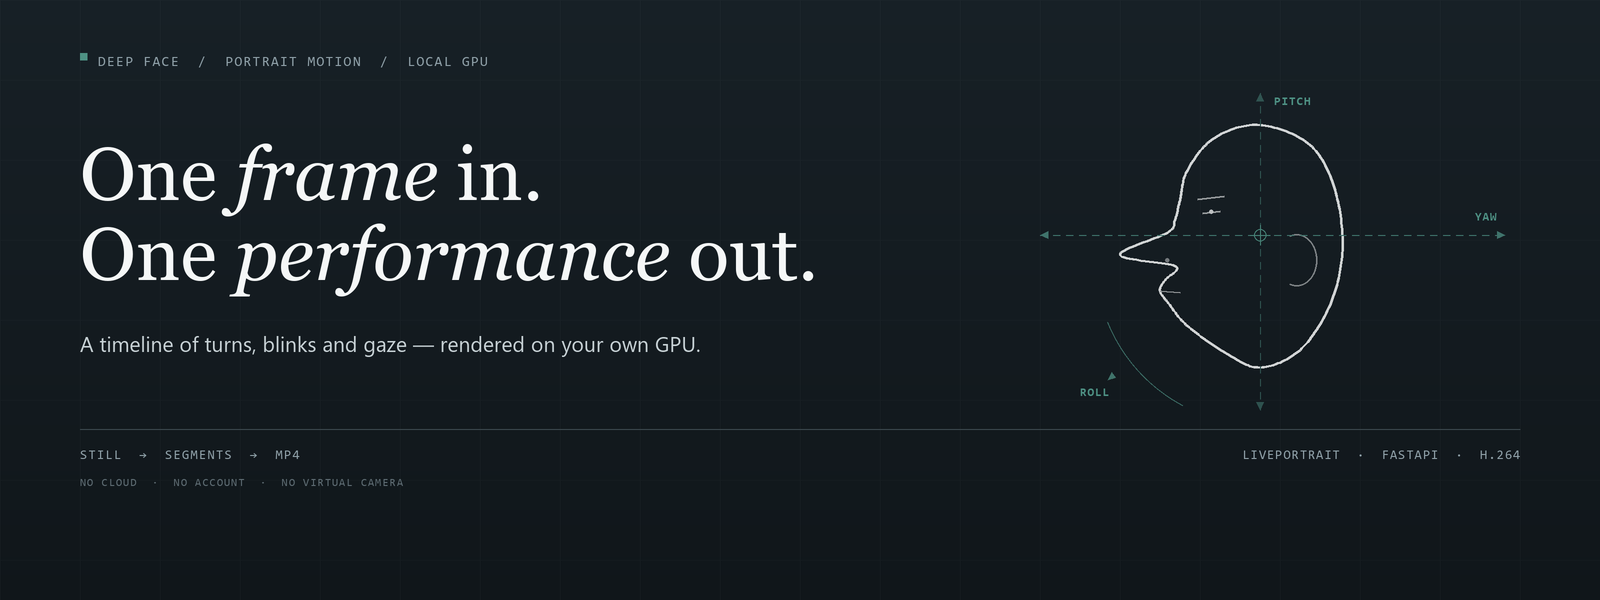
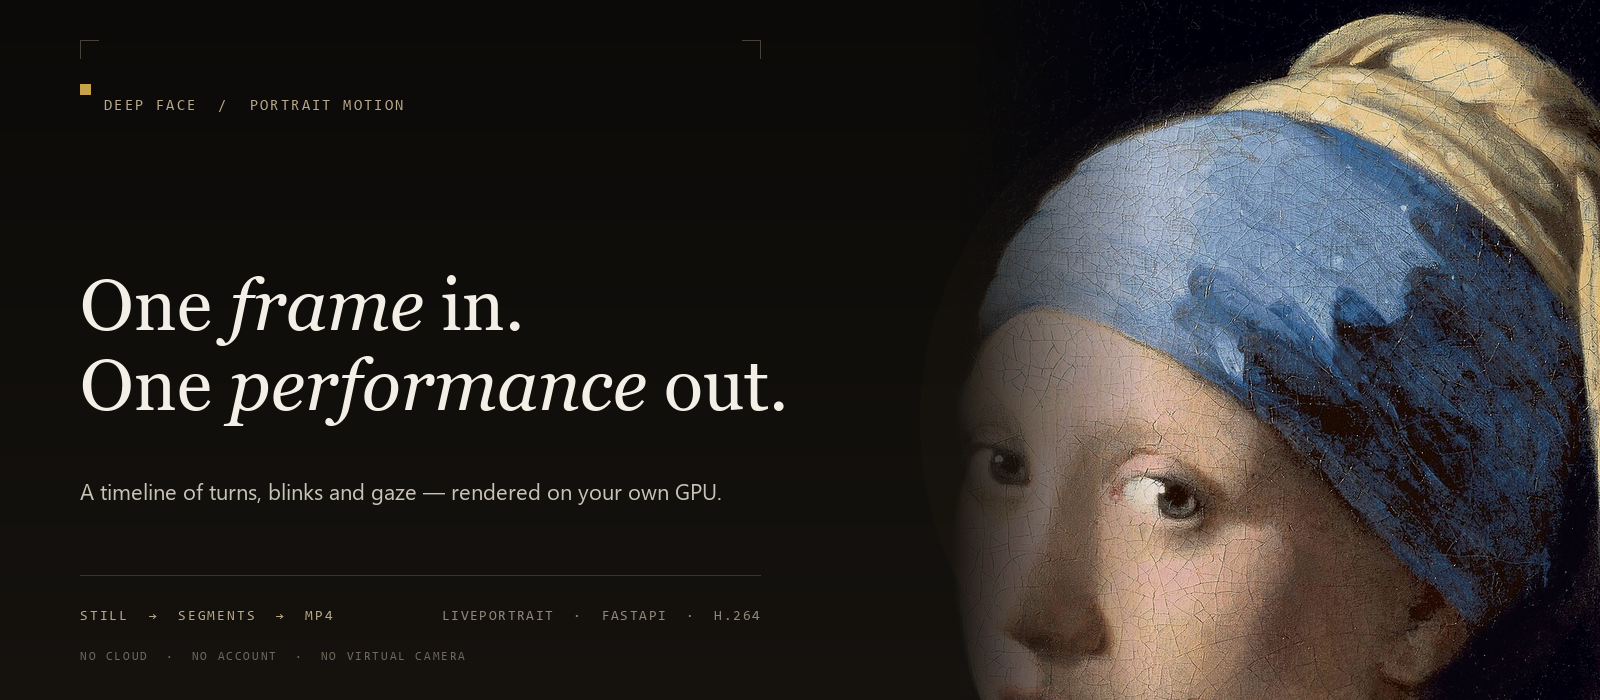
Replace the drawn cover with a Vermeer reference portrait

diff --git a/README.md b/README.md
@@ -1,5 +1,9 @@
 <p align="center">
-  <img src="docs/hero.png" alt="DEEP FACE — one frame in, one performance out" width="840" />
+  <img src="docs/hero.png" alt="DEEP FACE cover — a Vermeer portrait, a timeline, an MP4" width="840" />
+</p>
+
+<p align="center">
+  <sub>Reference portrait: Johannes Vermeer, <em>Girl with a Pearl Earring</em>, c. 1665 · public domain</sub>
 </p>
 
 <h1 align="center">DEEP FACE</h1>
@@ -389,6 +393,9 @@ describes what runs.
 [LivePortrait](https://github.com/KwaiVGI/LivePortrait) by KwaiVGI — the warping,
 decoding and retargeting code lives in that checkout, not here. FFmpeg through
 `imageio-ffmpeg` with a system fallback. FastAPI, Pillow, NumPy, Ollama.
+
+Cover: Johannes Vermeer, *Girl with a Pearl Earring* (c. 1665), public domain,
+via [Wikimedia Commons](https://commons.wikimedia.org/wiki/File:Meisje_met_de_parel.jpg).
 
 ---
 
